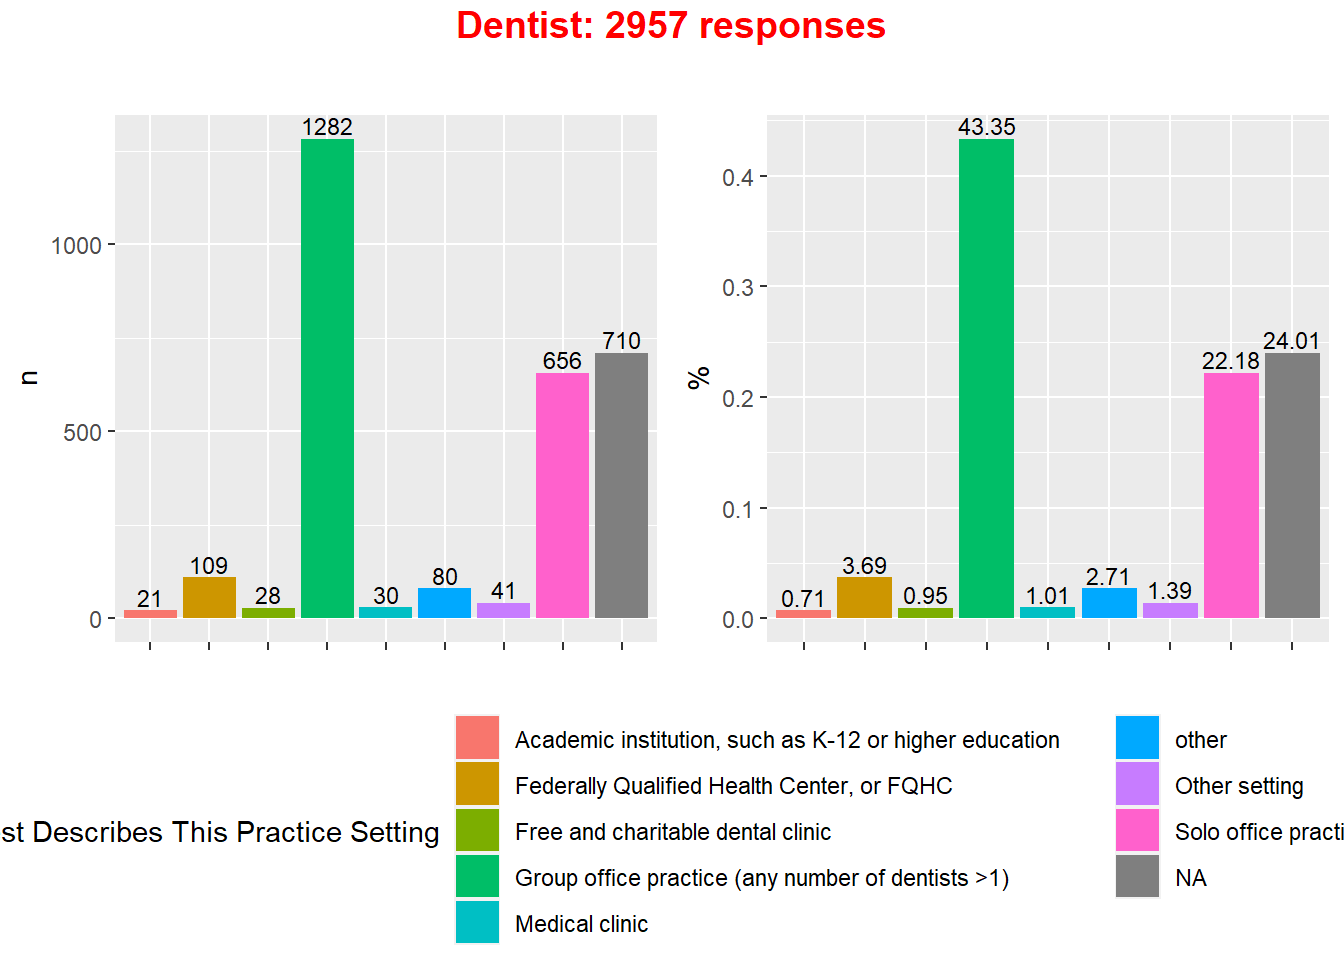
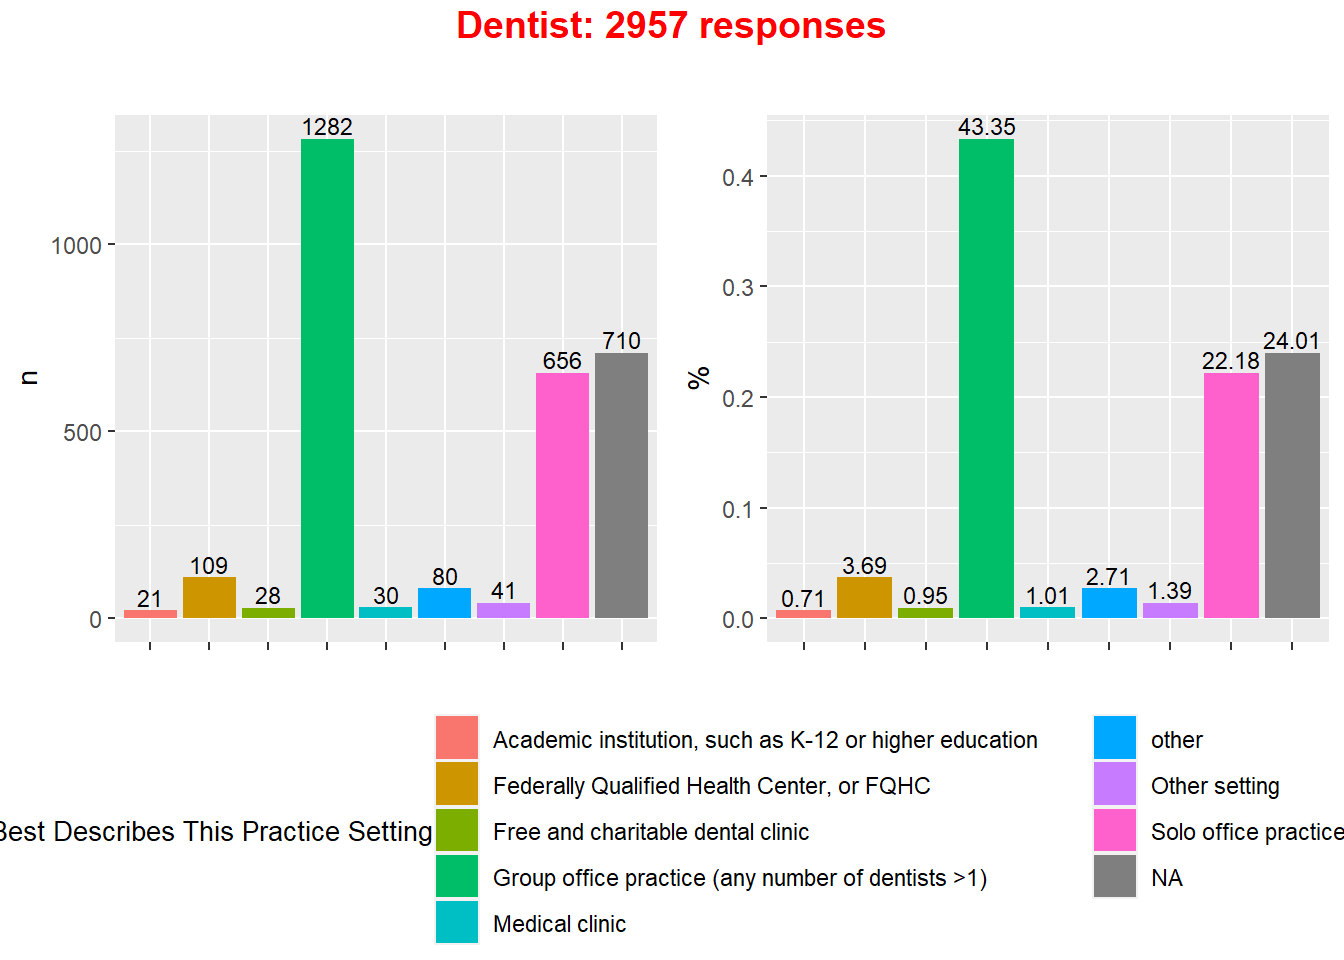
8/26/2024

Changed region(s): [[0.0, 0.75, 0.7812, 1.0], [0.8125, 0.75, 1.0, 0.9375]]

diff --git a/docs/2024_0701_survey.html b/docs/2024_0701_survey.html
@@ -574,15 +574,15 @@ analysis/Rfunctions.R
 <div class="panel panel-default">
 <div class="panel-heading">
 <p class="panel-title">
-<a data-toggle="collapse" data-parent="#workflowr-checks" href="#strongRepositoryversionstrongahrefhttpsgithubcomhan16Collaborationstreeb7d6426d4a4d24e302066e68b71abaaa906cca08targetblankb7d6426a">
+<a data-toggle="collapse" data-parent="#workflowr-checks" href="#strongRepositoryversionstrongahrefhttpsgithubcomhan16Collaborationstreedcdabd3c11b270adf386359b48ec17c57ba8cb3dtargetblankdcdabd3a">
 <span class="glyphicon glyphicon-ok text-success"
 aria-hidden="true"></span> <strong>Repository version:</strong>
-<a href="https://github.com/han16/Collaborations/tree/b7d6426d4a4d24e302066e68b71abaaa906cca08" target="_blank">b7d6426</a>
+<a href="https://github.com/han16/Collaborations/tree/dcdabd3c11b270adf386359b48ec17c57ba8cb3d" target="_blank">dcdabd3</a>
 </a>
 </p>
 </div>
 <div
[2 lines of base64/hex data omitted]
 class="panel-collapse collapse">
 <div class="panel-body">
 <p>
@@ -592,7 +592,7 @@ reproducibility.
 </p>
 <p>
 The results in this page were generated with repository version
-<a href="https://github.com/han16/Collaborations/tree/b7d6426d4a4d24e302066e68b71abaaa906cca08" target="_blank">b7d6426</a>.
+<a href="https://github.com/han16/Collaborations/tree/dcdabd3c11b270adf386359b48ec17c57ba8cb3d" target="_blank">dcdabd3</a>.
 See the <em>Past versions</em> tab to see a history of the changes made
 to the R Markdown and HTML files.
 </p>
@@ -658,6 +658,40 @@ Message
 </tr>
 </thead>
 <tbody>
+<tr>
+<td>
+Rmd
+</td>
+<td>
+<a href="https://github.com/han16/Collaborations/blob/dcdabd3c11b270adf386359b48ec17c57ba8cb3d/analysis/2024_0701_survey.Rmd" target="_blank">dcdabd3</a>
+</td>
+<td>
+han
+</td>
+<td>
+2024-08-26
+</td>
+<td>
+8/26/2024
+</td>
+</tr>
+<tr>
+<td>
+html
+</td>
+<td>
+<a href="https://rawcdn.githack.com/han16/Collaborations/dcdabd3c11b270adf386359b48ec17c57ba8cb3d/docs/2024_0701_survey.html" target="_blank">dcdabd3</a>
+</td>
+<td>
+han
+</td>
+<td>
+2024-08-26
+</td>
+<td>
+8/26/2024
+</td>
+</tr>
 <tr>
 <td>
 Rmd
@@ -1424,6 +1458,17 @@ Date
 <tbody>
 <tr>
 <td>
+<a href="https://github.com/han16/Collaborations/blob/dcdabd3c11b270adf386359b48ec17c57ba8cb3d/docs/figure/2024_0701_survey.Rmd/unnamed-chunk-4-1.png" target="_blank">dcdabd3</a>
+</td>
+<td>
+han
+</td>
+<td>
+2024-08-26
+</td>
+</tr>
+<tr>
+<td>
 <a href="https://github.com/han16/Collaborations/blob/b7d6426d4a4d24e302066e68b71abaaa906cca08/docs/figure/2024_0701_survey.Rmd/unnamed-chunk-4-1.png" target="_blank">b7d6426</a>
 </td>
 <td>
@@ -1950,6 +1995,17 @@ Date
 <tbody>
 <tr>
 <td>
+<a href="https://github.com/han16/Collaborations/blob/dcdabd3c11b270adf386359b48ec17c57ba8cb3d/docs/figure/2024_0701_survey.Rmd/unnamed-chunk-9-1.png" target="_blank">dcdabd3</a>
+</td>
+<td>
+han
+</td>
+<td>
+2024-08-26
+</td>
+</tr>
+<tr>
+<td>
 <a href="https://github.com/han16/Collaborations/blob/b7d6426d4a4d24e302066e68b71abaaa906cca08/docs/figure/2024_0701_survey.Rmd/unnamed-chunk-9-1.png" target="_blank">b7d6426</a>
 </td>
 <td>
@@ -2013,7 +2069,7 @@ practice_setting2=practice_setting %&gt;% filter(n&gt;threshold)  %&gt;% add_row
 g1=ggplot(practice_setting2, aes(x=`Best Describes This Practice Setting`, y=n, fill=`Best Describes This Practice Setting`)) +geom_bar(position = &quot;dodge&quot;, stat=&quot;identity&quot;)+
  # ylim(c(0, 0.7))+
   ylab(&quot;n&quot;)+xlab(&quot;&quot;)+
-  theme(legend.position=&quot;&quot;)+
+  theme(legend.position=&quot;&quot;, legend.title=element_text(size=10))+
   theme(axis.text.x = element_blank())+
   geom_text(aes(label=practice_setting2$n), position=position_dodge(width=0.9), vjust=-0.25, size=3)+  # add numbers over bars
   ggtitle(&quot;&quot;)+
@@ -2023,7 +2079,7 @@ g1=ggplot(practice_setting2, aes(x=`Best Describes This Practice Setting`, y=n, 
 g2=ggplot(practice_setting2, aes(x=`Best Describes This Practice Setting`, y=prop, fill=`Best Describes This Practice Setting`)) +geom_bar(position = &quot;dodge&quot;, stat=&quot;identity&quot;)+
  # ylim(c(0, 0.7))+
   ylab(&quot;%&quot;)+xlab(&quot;&quot;)+
-  theme(legend.position=&quot;&quot;)+
+  theme(legend.position=&quot;&quot;, legend.title=element_text(size=10))+
   theme(axis.text.x = element_blank())+
   geom_text(aes(label=practice_setting2$prop*100), position=position_dodge(width=0.9), vjust=-0.25, size=3)+  # add numbers over bars
   ggtitle(&quot;&quot;)+
@@ -2041,6 +2097,43 @@ annotate_figure(figure,
 
 )</code></pre>
 <p><img src="figure/2024_0701_survey.Rmd/unnamed-chunk-10-1.png" width="672" style="display: block; margin: auto;" /></p>
+<p>
+<button type="button" class="btn btn-default btn-xs btn-workflowr btn-workflowr-fig" data-toggle="collapse" data-target="#fig-unnamed-chunk-10-1">
+Past versions of unnamed-chunk-10-1.png
+</button>
+</p>
+<div id="fig-unnamed-chunk-10-1" class="collapse">
+<div class="table-responsive">
+<table class="table table-condensed table-hover">
+<thead>
+<tr>
+<th>
+Version
+</th>
+<th>
+Author
+</th>
+<th>
+Date
+</th>
+</tr>
+</thead>
+<tbody>
+<tr>
+<td>
+<a href="https://github.com/han16/Collaborations/blob/dcdabd3c11b270adf386359b48ec17c57ba8cb3d/docs/figure/2024_0701_survey.Rmd/unnamed-chunk-10-1.png" target="_blank">dcdabd3</a>
+</td>
+<td>
+han
+</td>
+<td>
+2024-08-26
+</td>
+</tr>
+</tbody>
+</table>
+</div>
+</div>
 <pre class="r"><code>practice_setting2%&gt;%
 datatable(extensions = &#39;Buttons&#39;,
           caption = &quot;&quot;,
@@ -2125,6 +2218,17 @@ Date
 <tbody>
 <tr>
 <td>
+<a href="https://github.com/han16/Collaborations/blob/dcdabd3c11b270adf386359b48ec17c57ba8cb3d/docs/figure/2024_0701_survey.Rmd/unnamed-chunk-14-1.png" target="_blank">dcdabd3</a>
+</td>
+<td>
+han
+</td>
+<td>
+2024-08-26
+</td>
+</tr>
+<tr>
+<td>
 <a href="https://github.com/han16/Collaborations/blob/6f9829aa17a61172a647e0faf5641a6bbc4419b2/docs/figure/2024_0701_survey.Rmd/unnamed-chunk-14-1.png" target="_blank">6f9829a</a>
 </td>
 <td>
@@ -2199,6 +2303,17 @@ Date
 </tr>
 </thead>
 <tbody>
+<tr>
+<td>
+<a href="https://github.com/han16/Collaborations/blob/dcdabd3c11b270adf386359b48ec17c57ba8cb3d/docs/figure/2024_0701_survey.Rmd/unnamed-chunk-15-1.png" target="_blank">dcdabd3</a>
+</td>
+<td>
+han
+</td>
+<td>
+2024-08-26
+</td>
+</tr>
 <tr>
 <td>
 <a href="https://github.com/han16/Collaborations/blob/7d181b067482346c83160fa93250c5dbbc6fb7dc/docs/figure/2024_0701_survey.Rmd/unnamed-chunk-15-1.png" target="_blank">7d181b0</a>
@@ -2320,12 +2435,123 @@ pie_chart[[i]]=ggplot(data=pie_data)+
 ggarrange(figures[[1]], figures[[2]], figures[[3]], figures[[4]], figures[[5]], figures[[6]], ncol=2)</code></pre>
 <pre><code>$`1`</code></pre>
 <p><img src="figure/2024_0701_survey.Rmd/unnamed-chunk-16-1.png" width="672" style="display: block; margin: auto;" /></p>
+<p>
+<button type="button" class="btn btn-default btn-xs btn-workflowr btn-workflowr-fig" data-toggle="collapse" data-target="#fig-unnamed-chunk-16-1">
+Past versions of unnamed-chunk-16-1.png
+</button>
+</p>
+<div id="fig-unnamed-chunk-16-1" class="collapse">
+<div class="table-responsive">
+<table class="table table-condensed table-hover">
+<thead>
+<tr>
+<th>
+Version
+</th>
+<th>
+Author
+</th>
+<th>
+Date
+</th>
+</tr>
+</thead>
+<tbody>
+<tr>
+<td>
+<a href="https://github.com/han16/Collaborations/blob/dcdabd3c11b270adf386359b48ec17c57ba8cb3d/docs/figure/2024_0701_survey.Rmd/unnamed-chunk-16-1.png" target="_blank">dcdabd3</a>
+</td>
+<td>
+han
+</td>
+<td>
+2024-08-26
+</td>
+</tr>
+</tbody>
+</table>
+</div>
+</div>
 <pre><code>
 $`2`</code></pre>
 <p><img src="figure/2024_0701_survey.Rmd/unnamed-chunk-16-2.png" width="672" style="display: block; margin: auto;" /></p>
+<p>
+<button type="button" class="btn btn-default btn-xs btn-workflowr btn-workflowr-fig" data-toggle="collapse" data-target="#fig-unnamed-chunk-16-2">
+Past versions of unnamed-chunk-16-2.png
+</button>
+</p>
+<div id="fig-unnamed-chunk-16-2" class="collapse">
+<div class="table-responsive">
+<table class="table table-condensed table-hover">
+<thead>
+<tr>
+<th>
+Version
+</th>
+<th>
+Author
+</th>
+<th>
+Date
+</th>
+</tr>
+</thead>
+<tbody>
+<tr>
+<td>
+<a href="https://github.com/han16/Collaborations/blob/dcdabd3c11b270adf386359b48ec17c57ba8cb3d/docs/figure/2024_0701_survey.Rmd/unnamed-chunk-16-2.png" target="_blank">dcdabd3</a>
+</td>
+<td>
+han
+</td>
+<td>
+2024-08-26
+</td>
+</tr>
+</tbody>
+</table>
+</div>
+</div>
 <pre><code>
 $`3`</code></pre>
 <p><img src="figure/2024_0701_survey.Rmd/unnamed-chunk-16-3.png" width="672" style="display: block; margin: auto;" /></p>
+<p>
+<button type="button" class="btn btn-default btn-xs btn-workflowr btn-workflowr-fig" data-toggle="collapse" data-target="#fig-unnamed-chunk-16-3">
+Past versions of unnamed-chunk-16-3.png
+</button>
+</p>
+<div id="fig-unnamed-chunk-16-3" class="collapse">
+<div class="table-responsive">
+<table class="table table-condensed table-hover">
+<thead>
+<tr>
+<th>
+Version
+</th>
+<th>
+Author
+</th>
+<th>
+Date
+</th>
+</tr>
+</thead>
+<tbody>
+<tr>
+<td>
+<a href="https://github.com/han16/Collaborations/blob/dcdabd3c11b270adf386359b48ec17c57ba8cb3d/docs/figure/2024_0701_survey.Rmd/unnamed-chunk-16-3.png" target="_blank">dcdabd3</a>
+</td>
+<td>
+han
+</td>
+<td>
+2024-08-26
+</td>
+</tr>
+</tbody>
+</table>
+</div>
+</div>
 <pre><code>
 attr(,&quot;class&quot;)
 [1] &quot;list&quot;      &quot;ggarrange&quot;</code></pre>
